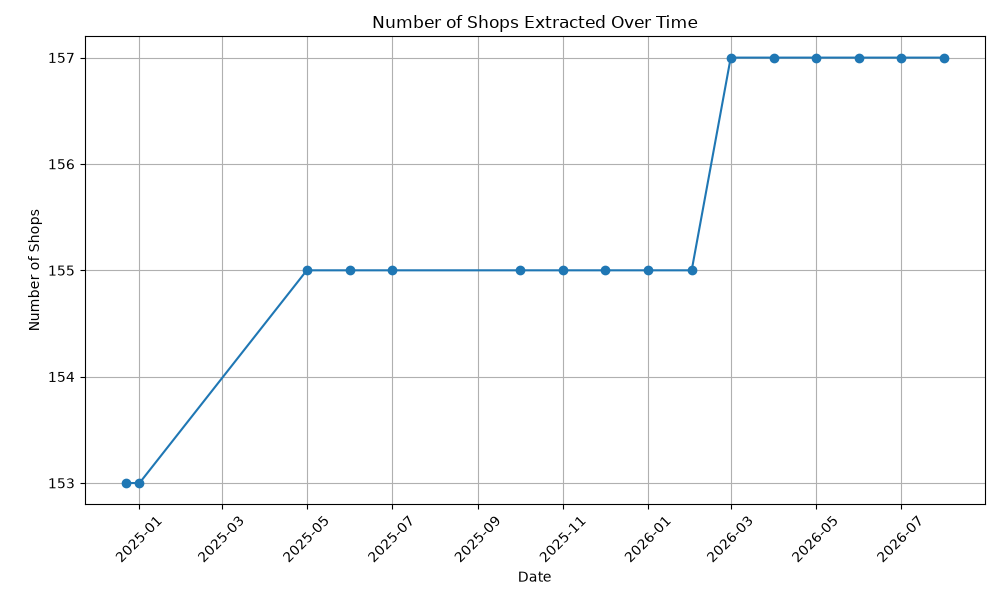
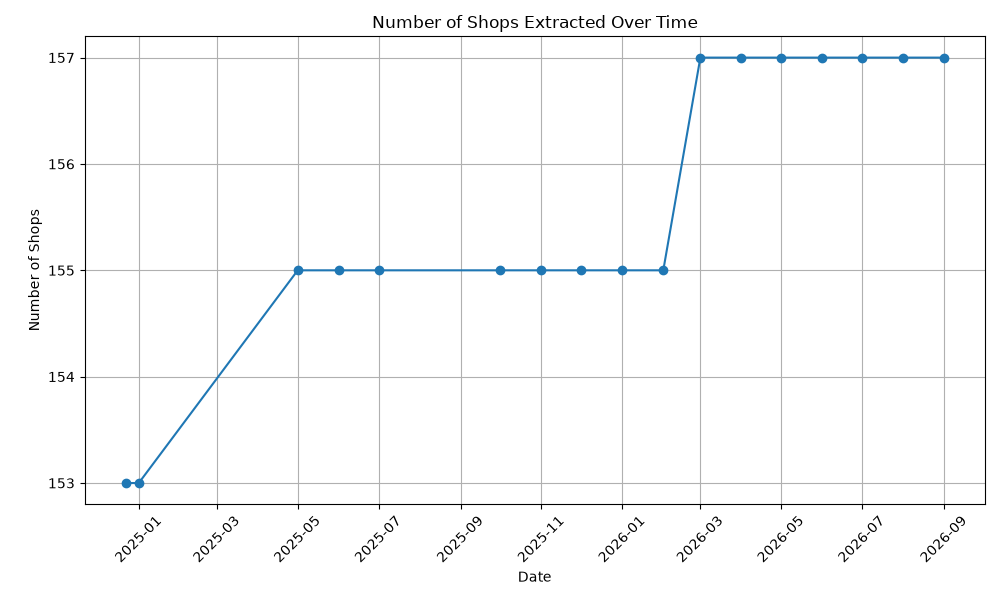
Stokomani 2026-09-01

diff --git a/Stokomani/README.md b/Stokomani/README.md
@@ -1,10 +1,10 @@
 # Stokomani 🏷
 
-**Data last updated on: 2026-08-01**
+**Data last updated on: 2026-09-01**
 
 Data scraped from: [Stokomani](https://www.stokomani.fr)
 
-![History Diagram](shop_count_history.png?img_date=2026-08-01)
+![History Diagram](shop_count_history.png?img_date=2026-09-01)
 
 ## 📅 Use the Latest Data Scraped Each Month
 
